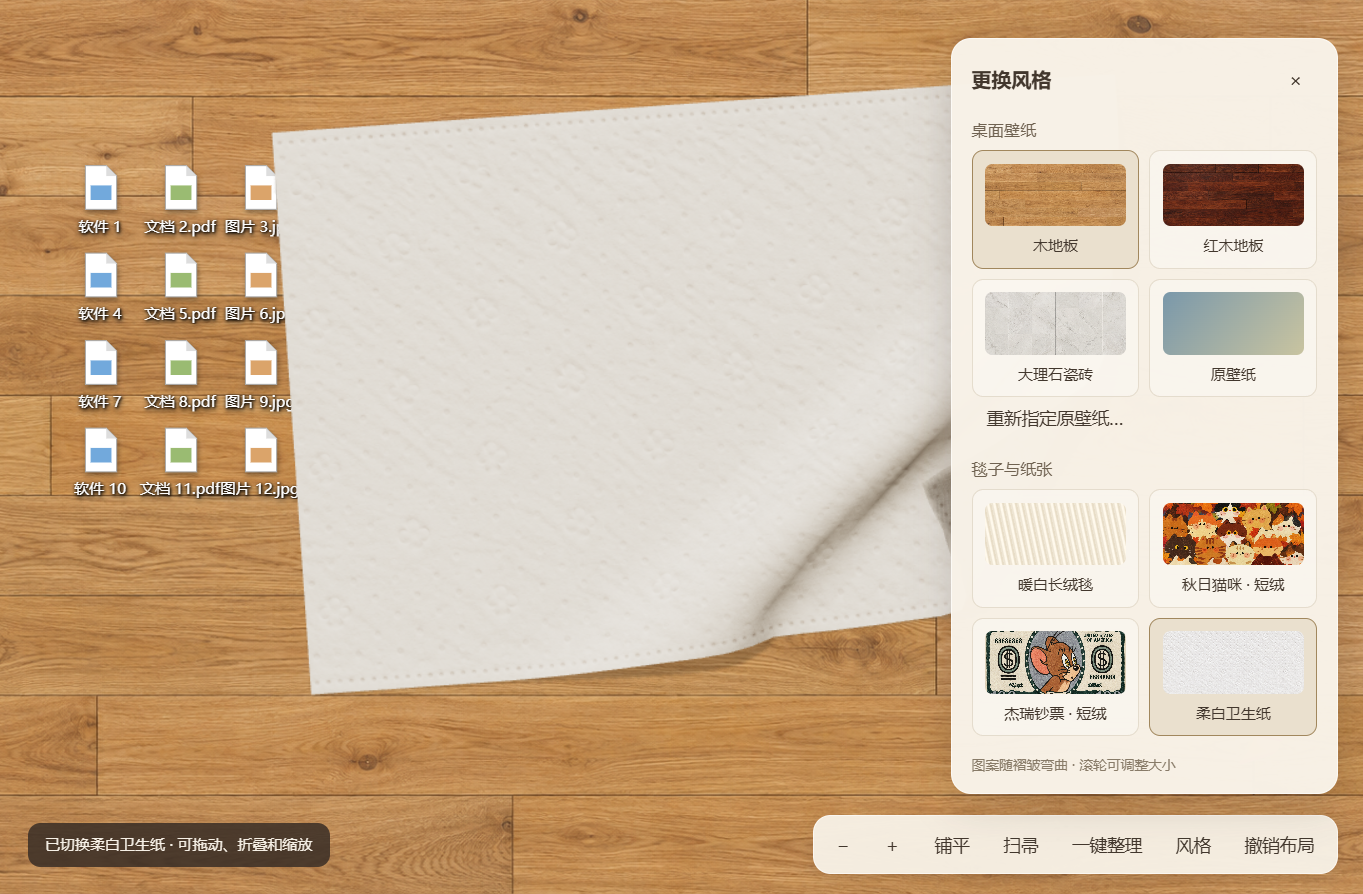
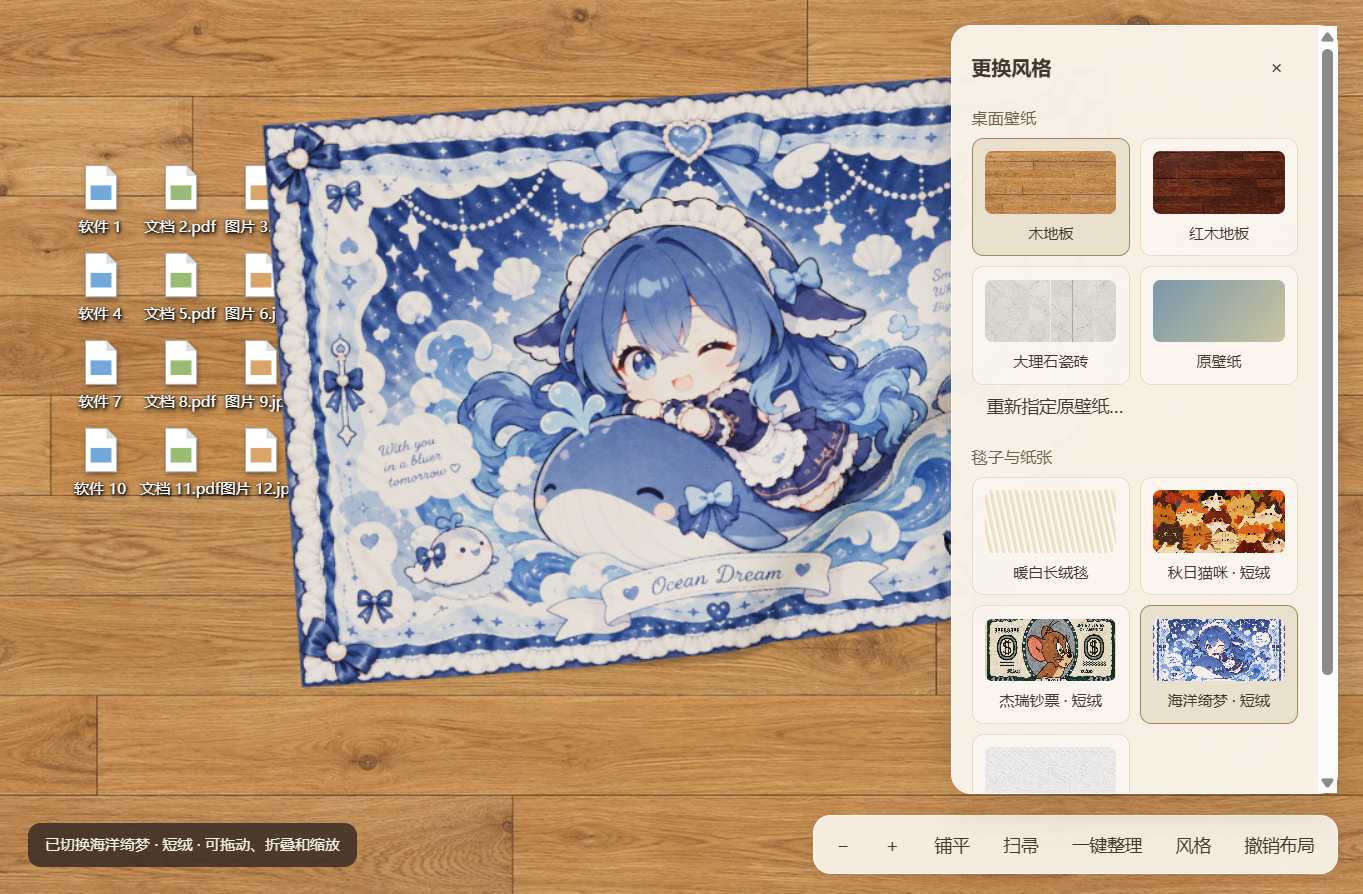
新增海洋绮梦短绒毯并更新中文样式图鉴

Changed region(s): [[0.1849, 0.0302, 0.9861, 0.8154], [0.0616, 0.906, 0.2773, 0.9664], [0.7087, 0.8456, 0.8628, 0.8758]]

diff --git a/src/DesktopBridge.cs b/src/DesktopBridge.cs
@@ -60,7 +60,7 @@ static partial class DesktopBridge {
             Native.SetWindowPos(handle,new IntPtr(1),work.Left,work.Top,work.Width,work.Height,0x0010|0x0020|0x0200);
             bool attached=GetStyle(handle,-8)==desktopOwner&&(GetStyle(handle,-16).ToInt64()&Native.WS_CHILD)==0;if(!attached)throw new InvalidOperationException("桌面图层设置失败");
             if(!File.Exists(Path.Combine(Program.Root,"floor-enabled.txt"))){var initial=Desktop().Read(scale,scale,ox,oy);string layout=Path.Combine(Program.Root,"original-icon-layout.bin");if(!File.Exists(layout))Desktop().SaveLayout(layout,initial);Desktop().EnableFreePlacement();FloorWallpaper.ApplyWood();}
-            File.WriteAllText(Path.Combine(Program.Root,"status.txt"),"Version=4.6\nRenderer=WebGL\nRunning=True\nAttached=True\nLayer=OwnedTopLevel\nChildWindow=False\nDisplay="+work.Width+"x"+work.Height+"\n");return new{attached=true};
+            File.WriteAllText(Path.Combine(Program.Root,"status.txt"),"Version=4.6.1\nRenderer=WebGL\nRunning=True\nAttached=True\nLayer=OwnedTopLevel\nChildWindow=False\nDisplay="+work.Width+"x"+work.Height+"\n");return new{attached=true};
         }
         if(method=="present"){if(surface==IntPtr.Zero)throw new InvalidOperationException("桌面图层尚未准备好");Native.SetWindowPos(surface,new IntPtr(1),0,0,0,0,0x0001|0x0002|0x0010|0x0040|0x0200);return true;}
         if(method=="layerInfo"){bool above=false;IntPtr next=surface;for(int n=0;n<1000&&next!=IntPtr.Zero;n++){next=GetWindow(next,2);if(next==desktopOwner){above=true;break;}}return new{isChild=(GetStyle(surface,-16).ToInt64()&Native.WS_CHILD)!=0,hasDesktopOwner=GetStyle(surface,-8)==desktopOwner,visible=IsWindowVisible(surface),aboveDesktop=above,desktopViewVisible=IsWindowVisible(Native.DesktopView()),nativeIconsVisible=IsWindowVisible(IconView()),iconViewCovered=iconViewCovered};}

diff --git a/qa/package-v4.py b/qa/package-v4.py
@@ -14,7 +14,7 @@ for required in [root / 'DesktopRug.exe', runtime / 'electron.exe', root / 'web/
 
 files = [root / name for name in ['DesktopRug.exe', 'README.md', 'AGENTS.md', 'ASSET_NOTICE.md', 'LICENSE', '使用说明.txt', 'setup.ps1', 'build.ps1']]
 files += list((root / 'src').glob('*.cs')) + [root / 'src/app.manifest']
-asset_names = {'rugs.json', 'wallpapers.json', 'rug.ico', 'persian-rug.png', 'asset-provenance.txt', 'style-prompts-v45.txt'}
+asset_names = {'rugs.json', 'wallpapers.json', 'rug.ico', 'persian-rug.png', 'asset-provenance.txt', 'style-prompts-v45.txt', 'style-prompts-ocean-dream.txt'}
 for registry in ['rugs.json', 'wallpapers.json']:
     asset_names.update(style['file'] for style in json.loads((root / 'assets' / registry).read_text(encoding='utf-8')) if style.get('file'))
 files += [root / 'assets' / name for name in asset_names]

diff --git a/README.md b/README.md
@@ -2,7 +2,7 @@
 
 把 Windows 桌面变成一块地板，在上面铺一张可以拖动、掀起、折叠、缩放的毯子；拿起扫帚，直接推动真实桌面图标，把它们扫成一堆，或慢慢扫到毯子下面。
 
-当前版本 **4.6**。完整 C#、Electron、Three.js、布料物理与交互源码均在仓库中，内置贴图一并提供。支持本地运行和继续开发；无账号、API Key、云服务或数据库依赖。
+当前版本 **4.6.1**。完整 C#、Electron、Three.js、布料物理与交互源码均在仓库中，内置贴图一并提供。支持本地运行和继续开发；无账号、API Key、云服务或数据库依赖。
 
 ![风格面板与可折叠纸张](docs/images/panel.png)
 
@@ -49,13 +49,21 @@
 | ![杰瑞钞票短绒毯](docs/images/jerry-note.png) | ![柔白卫生纸](docs/images/tissue.png) |
 | 卡通钞票式印花，绿色边框与短绒材质。 | 单张薄纸、细压纹、无绒毛；可折叠和缩放，不模拟撕裂。 |
 
-材质资源由 [assets/rugs.json](assets/rugs.json) 管理。长绒用程序生成毛束；两款印花使用短绒；卫生纸使用独立薄纸参数。
+### 新增：海洋绮梦 · 短绒 `ocean-dream`
+
+| 平铺图案 | 局部掀起 |
+| --- | --- |
+| ![海洋绮梦短绒毯](docs/images/ocean-dream.png) | ![海洋绮梦折叠](docs/images/ocean-fold.png) |
+
+蓝发少女、鲸鱼、海浪、星星与蓝白蝴蝶结，保留参考图的 Ocean Dream 主题。花边、珍珠和蝴蝶结作为布面印花随毯子折叠；采用现有短绒材质，不额外增加毛束或物理网格。风格菜单内共有五款毯子/纸张，内容较多时可在面板内滚动。
+
+材质资源由 [assets/rugs.json](assets/rugs.json) 管理。长绒用程序生成毛束；三款印花使用短绒；卫生纸使用独立薄纸参数。
 
 | 短绒局部掀起 | 薄纸折叠 |
 | --- | --- |
 | ![短绒折叠](docs/images/short-fold.png) | ![纸张折叠](docs/images/paper-fold.png) |
 
-早期版本的 [波斯毯贴图](assets/persian-rug.png) 和 WPF 源码也完整保留，供研究与继续开发；该贴图没有加入当前 4.6 风格面板，不能把它当成已启用的第五款毯子。
+早期版本的 [波斯毯贴图](assets/persian-rug.png) 和 WPF 源码也完整保留，供研究与继续开发；该贴图没有加入当前风格面板，属于保留的历史素材。
 
 ## 交给你的 AI，直接本地部署
 

diff --git a/ASSET_NOTICE.md b/ASSET_NOTICE.md
@@ -9,13 +9,14 @@
 | `marble-tile-floor.png` | 使用 image_gen 生成的大理石瓷砖 |
 | `cats-short-pile.png` | 根据提供的秋日猫咪参考图，由 image_gen 重新制作成短绒 UV 贴图 |
 | `jerry-short-pile.png` | 根据提供的卡通钞票毯参考图，由 image_gen 重新制作；涉及 Jerry 角色形象 |
+| `ocean-dream-short-pile.png` | 根据提供的蓝白 Ocean Dream 插画，由 image_gen 平整化为短绒 UV 贴图；角色、鲸鱼、花边与蝴蝶结为印花内容 |
 | `toilet-tissue.png` | 使用 image_gen 生成的薄纸压纹纹理 |
 | `persian-rug.png` | 早期 WPF 版本使用的生成波斯毯纹理，保留用于研究 |
 | `rug.ico` / `web/broom-cursor.svg` | 本项目程序绘制的图标与扫帚矢量资源 |
 | 长绒毛束 | 运行时由程序生成 |
 | `docs/images/*.png` | 本程序预览模式截图，图标由合成示例生成 |
 
-生成记录与提示词保留在 [assets/asset-provenance.txt](assets/asset-provenance.txt) 和 [assets/style-prompts-v45.txt](assets/style-prompts-v45.txt)。公开仓库不包含用户提交的原始参考照片、个人桌面截图或壁纸备份。
+生成记录与提示词保留在 [assets/asset-provenance.txt](assets/asset-provenance.txt) 和 [assets/style-prompts-v45.txt](assets/style-prompts-v45.txt)。海洋绮梦的完整提示词见 [assets/style-prompts-ocean-dream.txt](assets/style-prompts-ocean-dream.txt)。公开仓库不包含用户提交的原始参考照片、个人桌面截图或壁纸备份。
 
 代码的 MIT 许可不表示参考图设计、卡通角色或相关商标已获得权利人授权；本仓库不提供这些第三方授权。继续发布、制作商业产品或分发相关图案时，请自行核对适用权利，或替换成自己有权使用的原创图案。
 

diff --git a/docs/DEVELOPMENT.md b/docs/DEVELOPMENT.md
@@ -75,7 +75,7 @@ node qa/drag-stress.mjs
 
 现有材质为 `plush`（长绒、毛束）、`short`（短绒、印花）、`paper`（薄纸、无毛发）。仅增加印花不需要改物理引擎；新材质类型需同步 `SurfaceStyles.cs`、`materials.mjs`、`cloth.mjs` 与校验/测试。避免把摄影中的透视、人物或褶皱烘焙进 UV 图案。更新 README 图鉴和素材来源记录后运行校验与材质测试。
 
-`assets/persian-rug.png` 是保留的早期 WPF 波斯毯素材，当前 4.6 的风格面板未启用；它不是额外的第五款当前毯子。
+`assets/persian-rug.png` 是保留的早期 WPF 波斯毯素材，当前风格面板未启用；它属于保留的历史素材。
 
 ## 性能与已知限制
 
@@ -93,4 +93,4 @@ node qa/drag-stress.mjs
 python qa/package-v4.py
 ```
 
-输出位于 `dist/DesktopRug-Windows-v4.6.zip`，包含 EXE、所需 Electron 运行时、Three.js、资产、源码与说明。打包脚本使用明确清单并检查压缩包完整性，不收集运行缓存、原壁纸和个人桌面状态。源码仓库无需提交整个 `node_modules`。
+输出位于 `dist/DesktopRug-Windows-v4.6.1.zip`，包含 EXE、所需 Electron 运行时、Three.js、资产、源码与说明。打包脚本使用明确清单并检查压缩包完整性，不收集运行缓存、原壁纸和个人桌面状态。源码仓库无需提交整个 `node_modules`。

diff --git a/docs/AI_DEPLOY.md b/docs/AI_DEPLOY.md
@@ -45,4 +45,4 @@ npm --prefix web test
 
 ## 交付检查
 
-确认 `DesktopRug.exe`、`web/enabled.flag`、`web/node_modules/electron/dist/electron.exe` 和所有注册样式图片存在；确认八组纯逻辑测试通过。预览应有四种壁纸选项、四种材质选项和扫帚/整理入口。真实桌面检查图标没有持续闪烁，原壁纸可恢复，并向使用者说明退出不会自动还原壁纸与网格设置。
+确认 `DesktopRug.exe`、`web/enabled.flag`、`web/node_modules/electron/dist/electron.exe` 和所有注册样式图片存在；确认八组纯逻辑测试通过。预览应有四种壁纸选项、五种毯子/纸张选项和扫帚/整理入口。真实桌面检查图标没有持续闪烁，原壁纸可恢复，并向使用者说明退出不会自动还原壁纸与网格设置。
